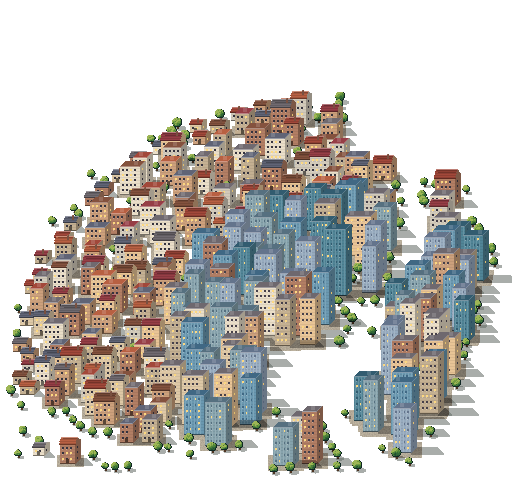
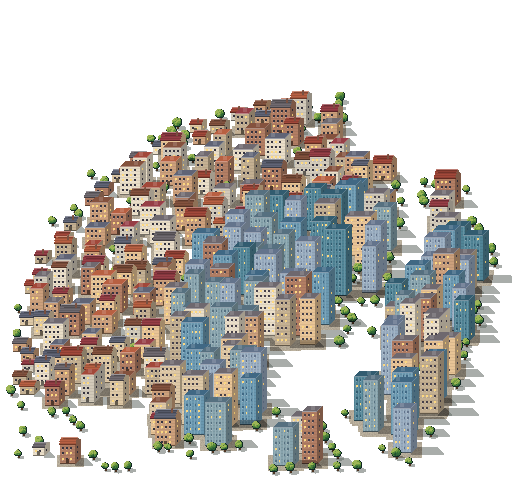
Open Case: the music shop on the map, on the road into town between the park and the station
places.py draws shop.png: a flat over a green shopfront, a sign board with a gold note, a striped
awning and a lit window with a guitar in it, on a bit of pavement. layout.py stands it in the city
just above the road's kerb, halfway from the park to the station, and adds STOPS (the places to busk,
then the shop). The city's buildings keep clear of it, and map.json's places gain "shop", "The Music
Shop", with its pin, label and view. map.test.js checks the shop's picture and stop.

Changed region(s): [[0.1562, 0.7622, 0.4062, 0.9146]]

diff --git a/open-case/test/map.test.js b/open-case/test/map.test.js
@@ -1,6 +1,7 @@
 // Checks the committed map (open-case/assets/map/, written by art/open-case/map/land.py and places.py)
 // against what the map screen expects: every picture map.json names is there and lies on the map, each
-// place to busk has its pin, label and view on the map, and the whole map stays small.
+// stop (the places to busk, then the music shop) has its pin, label and view on the map, and the whole
+// map stays small.
 import { test } from 'node:test';
 import assert from 'node:assert/strict';
 import { readFileSync, readdirSync, statSync } from 'node:fs';
@@ -20,7 +21,7 @@ test('the land is half the map each way, shown at twice its size', () => {
 test('every picture map.json names is there and lies on the map, the city first, under the rest', () => {
   assert.equal(map.pictures[0].name, 'city');
   const names = map.pictures.map((p) => p.name);
-  for (const want of [...PLACE_IDS, 'city', 'suspension', 'truss', 'village', 'lighthouse', 'marina', 'farm']) assert.ok(names.includes(want), want);
+  for (const want of [...PLACE_IDS, 'shop', 'city', 'suspension', 'truss', 'village', 'lighthouse', 'marina', 'farm']) assert.ok(names.includes(want), want);
   assert.equal(new Set(names).size, names.length, 'each once');
   for (const { name, x, y } of map.pictures) {
     const { w, h } = png(name);
@@ -32,7 +33,7 @@ test('every picture map.json names is there and lies on the map, the city first,
 });
 
 test("each place to busk has its picture, its name, and its pin, label and view on the map, the pin over the picture", () => {
-  assert.deepEqual(Object.keys(map.places), PLACE_IDS);
+  assert.deepEqual(Object.keys(map.places), [...PLACE_IDS, 'shop'], 'the stops: the places to busk, then the shop');
   for (const id of PLACE_IDS) {
     const p = map.places[id], pic = map.pictures.find((q) => q.name === id), { w, h } = png(id);
     assert.equal(p.name, PLACE_WORDS[id].name);
@@ -40,6 +41,17 @@ test("each place to busk has its picture, its name, and its pin, label and view 
     assert.ok(p.pin[0] > pic.x && p.pin[0] < pic.x + w && p.pin[1] >= pic.y - 6 && p.pin[1] < pic.y + h, `${id}'s pin`);
     assert.ok(p.label[1] > p.pin[1], `${id}'s label hangs under it`);
   }
+});
+
+test('the music shop is the last stop, with its picture, its name, its pin over the picture and its label under it', () => {
+  const p = map.places.shop, pic = map.pictures.find((q) => q.name === 'shop');
+  assert.ok(p && pic, 'the shop has a stop and a picture');
+  const { w, h } = png('shop');
+  assert.equal(p.name, 'The Music Shop');
+  for (const [x, y] of [p.pin, p.label, p.view]) assert.ok(x >= 0 && x < W && y >= 0 && y < H, `shop: ${x}, ${y}`);
+  assert.ok(p.pin[0] > pic.x && p.pin[0] < pic.x + w && p.pin[1] >= pic.y - 6 && p.pin[1] < pic.y + h, "the shop's pin");
+  assert.ok(p.label[0] > pic.x && p.label[0] < pic.x + w, "the shop's label sits under its picture");
+  assert.ok(p.label[1] > p.pin[1], "the shop's label hangs under its pin");
 });
 
 test('the whole map stays under 500 KB', () => {

diff --git a/art/open-case/map/places.py b/art/open-case/map/places.py
@@ -3,6 +3,8 @@
 #   the three places to busk: the park (a ring of trees round a lawn, a pond, the bandstand), the station
 #     (the glass train shed, its brick front and clock tower, a limestone forecourt with a fountain) and
 #     the night market (striped stalls under lanterns on warm brick, townhouses behind, a boardwalk);
+#   the music shop, on the road into town between the park and the station (a flat over a shopfront
+#     with a striped awning and a guitar in its lit window);
 #   the city, in loose clusters over the land between the park, the station and the village: towers by
 #     the station, flats further out, houses at the edges, trees in the gaps;
 #   the settlements without a name: a village with a church, two suburbs, a farm, a lighthouse, a marina;
@@ -14,16 +16,17 @@
 #   size      [w, h]: the map in screen pixels (the land at SCALE times its size)
 #   land      the land's picture
 #   pictures  [{ name, x, y }]: each picture's top left, in the order they're drawn (the city first)
-#   places    { id: { name, pin: [x, y], label: [x, y], view: [x, y] } }: each place's picture, where its
-#             gold pin points (just over its top), where its label hangs (under it), and the point the
-#             view centres on when it's chosen
+#   places    { id: { name, pin: [x, y], label: [x, y], view: [x, y] } }: each of the map's stops (the
+#             places to busk, then the music shop): its name, where its gold pin points (just over its
+#             picture's top), where its label hangs (under it), and the point the view centres on when
+#             it's chosen
 #   clouds    [{ name, x, y }]: where each cloud starts, drawn at SCALE times its size
 # It's deterministic: an unchanged script writes the same bytes.
 import json, math
 import sys
 from PIL import Image, ImageDraw
 sys.dont_write_bytecode = True  # no __pycache__ beside the scripts
-from layout import (W, H, SCALE, OUT, hsh, mix, step, darker, lighter, PICTURES, PLACES, BRIDGES, CITY, CITY_HEART, CLOUDS,
+from layout import (W, H, SCALE, OUT, hsh, mix, step, darker, lighter, PICTURES, STOPS, BRIDGES, CITY, CITY_HEART, CLOUDS,
                     in_city, masks)
 
 LEAF = [(16, 40, 36), (24, 58, 44), (34, 80, 50), (50, 104, 54), (76, 130, 58), (114, 156, 66), (158, 182, 86)]
@@ -450,6 +453,83 @@ def market():
     back_to_front(items)
     return cv
 
+
+def shop():
+    """The music shop on the road into town: a flat over a shopfront, its sign board with a gold note,
+    a striped awning over the door and a lit window with a guitar standing in it; a bit of pavement in
+    front, with a sandwich board, a lamp and a tree at each end. A little bigger than a city house."""
+    cv = Canvas(72, 56)
+    def slabs(x, y, d):  # the pavement's pale slabs, like the station's forecourt but smaller
+        if d > 0.88:
+            return (184, 174, 154)
+        row = y // 3
+        joint = y % 3 == 0 or (x + (row % 2) * 3) % 6 == 0
+        return (170, 158, 136) if joint else mix((216, 206, 182), (230, 222, 200), hsh(x // 6, row, 64))
+    ground(cv, 34, 49, 30, 5, slabs, 63)
+    x, y, w, h = 21, 46, 24, 25  # the front's bottom left, its width and its height to the eaves
+    wall, GREEN, GOLD = (234, 222, 200), (34, 78, 64), (252, 208, 98)
+    def house():
+        building(cv, x, y, w, h, 12, wall, (96, 100, 118), 'gable', lit=0.5, seed=5, floors=2, door=False)
+        cv.rect(x, y - h, x + w - 1, y - 1, wall)  # the front, painted afresh for the shop's own windows
+        for yy in range(y - h + 2, y, 3):
+            cv.line([(x, yy), (x + w - 1, yy)], darker(wall, 0.06))
+        for k, wx in enumerate(range(x + 4, x + w - 3, 7)):  # the flat upstairs, flowers on its sills
+            cv.rect(wx, y - h + 2, wx + 1, y - h + 4, (252, 216, 128) if k == 1 else (52, 50, 62))
+            cv.line([(wx - 1, y - h + 5), (wx + 2, y - h + 5)], (64, 108, 50))
+            cv.put(wx, y - h + 5, (222, 84, 92))
+            cv.put(wx + 2, y - h + 5, (248, 212, 98))
+        cv.line([(x - 1, y - 17), (x + w, y - 17)], lighter(wall, 0.5))  # the cornice over the shopfront
+        cv.rect(x, y - 16, x + w - 1, y - 14, GREEN)  # the sign board, gold letters round a note
+        cv.line([(x, y - 16), (x + w - 1, y - 16)], (62, 112, 90))
+        nx = x + w // 2
+        for lx in list(range(x + 2, nx - 3, 2)) + list(range(nx + 4, x + w - 2, 2)):
+            cv.put(lx, y - 15, (226, 196, 120))
+        for (ddx, ddy) in ((0, -18), (1, -18), (2, -17), (0, -17), (0, -16), (0, -15), (-1, -15), (-2, -15), (-1, -14), (-2, -14)):
+            cv.put(nx + ddx, y + ddy, GOLD)  # its flag pokes up over the board
+        cv.rect(x, y - 13, x + w - 1, y, GREEN)  # the shopfront
+        wx1 = x + w - 9  # the window, lit warm, the guitar standing in it
+        cv.rect(x + 2, y - 11, wx1, y - 1, (24, 50, 42))
+        for yy in range(y - 10, y - 1):
+            cv.line([(x + 3, yy), (wx1 - 1, yy)], mix((255, 244, 206), (246, 204, 128), (yy - (y - 10)) / 8))
+        guitar = ['..H..', '..N..', '..N..', '..N..', '.BBB.', '.BOB.', 'bBBBb', 'bBBBb', '.bbb.']
+        colours = {'H': (54, 32, 26), 'N': (90, 56, 38), 'B': (214, 104, 44), 'b': (128, 52, 32), 'O': (46, 26, 22)}
+        gx = (x + 2 + wx1) // 2 - 2
+        for r, row in enumerate(guitar):
+            for c, ch in enumerate(row):
+                if ch in colours:
+                    cv.put(gx + c, y - 10 + r, colours[ch])
+        cv.line([(x + 2, y - 1), (wx1, y - 1)], lighter(GREEN, 0.3))  # the sill
+        dx0 = x + w - 6  # the door, its glass lit
+        cv.rect(dx0, y - 10, dx0 + 3, y - 1, (22, 50, 42))
+        cv.rect(dx0 + 1, y - 9, dx0 + 2, y - 5, (246, 206, 128))
+        cv.put(dx0 + 2, y - 3, GOLD)
+        a, b = (204, 58, 66), (246, 238, 222)  # the striped awning, lit along its top, scalloped below
+        cv.rect(x - 1, y - 13, x + w, y - 11, b)
+        for xx in range(x - 1, x + w + 1):
+            if ((xx - x + 1) // 2) % 2 == 0:
+                cv.line([(xx, y - 13), (xx, y - 11)], a)
+                cv.put(xx, y - 10, a if (xx - x) % 2 == 0 else darker(a, 0.2))
+            elif (xx - x) % 2 == 0:
+                cv.put(xx, y - 10, darker(b, 0.12))
+        cv.line([(x - 1, y - 13), (x + w, y - 13)], lighter(a, 0.25))
+        for xx in range(x + 3, wx1):  # its shadow on the window
+            cv.shade(xx, y - 9, 0.2)
+    def board(px, py):  # a sandwich board by the door, chalked
+        cv.rect(px, py - 4, px + 2, py - 1, (52, 56, 54))
+        cv.line([(px, py - 4), (px + 2, py - 4)], (150, 112, 74))
+        cv.put(px + 1, py - 3, (236, 232, 220))
+        cv.put(px + 1, py - 2, GOLD)
+        cv.put(px, py, (100, 72, 48))
+        cv.put(px + 2, py, (100, 72, 48))
+        cv.put(px + 3, py, (0, 0, 0, 60))
+    items = [(y, 0, house), (49, 1, lambda: board(x + w - 3, 49)), (50, 2, lambda: lamp(cv, x - 4, 50))]
+    for k, px in enumerate((7, 65)):
+        items.append((50, 10 + k, lambda px=px: tree(cv, px, 50, 5, px + 3)))
+    for i, (px, py) in enumerate(((x + 6, 49), (x + 11, 51), (x + w + 4, 50))):
+        items.append((py, 20 + i, lambda px=px, py=py, i=i: person(cv, px, py, i + 3)))
+    back_to_front(items)
+    return cv
+
 # ---------------------------------------------------------------------------------------------
 # The settlements without a name
 
@@ -680,9 +760,9 @@ def truss(L=88):
 
 def city(pictures, M):
     """The city's buildings, loose on patches of paving over the land inside its outline, clear of the
-    roads, the water and the pictures standing in it (the station, the village, the park): towers
-    crowded round its heart by the station, flats further out, houses in gardens at the edges, trees in
-    the gaps. Returns the picture and its top left, in screen pixels."""
+    roads, the water and the pictures standing in it (the station, the village, the park, the shop):
+    towers crowded round its heart by the station, flats further out, houses in gardens at the edges,
+    trees in the gaps. Returns the picture and its top left, in screen pixels."""
     roads, water = M['kerb'].load(), M['water'].load()
     xs, ys = [p[0] for p in CITY], [p[1] for p in CITY]
     lx0, ly0, lx1, ly1 = min(xs) - 4, min(ys) - 50, max(xs) + 8, max(ys) + 6  # with headroom for the towers
@@ -695,7 +775,7 @@ def city(pictures, M):
     def clear_of(px0, py0, px1, py1):
         return all(ground_ok(*land(px, py)) for py in range(int(py0), int(py1) + 1, 2) for px in range(int(px0), int(px1) + 1, 2))
     keep_out = []  # the lower part of each picture standing in the city
-    for name in ('station', 'village', 'park'):
+    for name in ('station', 'village', 'park', 'shop'):
         cx, by, _, _ = PICTURES[name]
         im = pictures[name].img
         keep_out.append((cx * SCALE - im.width // 2 - lx0 * SCALE + 6, by * SCALE - im.height * 0.55 - ly0 * SCALE,
@@ -767,8 +847,8 @@ def top_row(cv):
 
 
 pictures = {
-    'park': park(), 'station': station(), 'market': market(), 'suburb1': suburb(3), 'suburb2': suburb(11),
-    'village': village(), 'farm': farm(), 'lighthouse': lighthouse(), 'marina': marina(),
+    'park': park(), 'station': station(), 'market': market(), 'shop': shop(), 'suburb1': suburb(3),
+    'suburb2': suburb(11), 'village': village(), 'farm': farm(), 'lighthouse': lighthouse(), 'marina': marina(),
 }
 the_city, city_at = city(pictures, masks())
 bridges = {'suspension': suspension(96), 'truss': truss(88)}
@@ -776,12 +856,12 @@ clouds = {'cloud1': cloud(120, 44, 5), 'cloud2': cloud(90, 34, 9)}
 
 placed = [{'name': 'city', 'x': city_at[0], 'y': city_at[1]}]
 places = {}
-NAMES = {'park': 'The Park', 'station': 'The Station', 'market': 'The Night Market'}
+NAMES = {'park': 'The Park', 'station': 'The Station', 'market': 'The Night Market', 'shop': 'The Music Shop'}
 for name, (cx, by, w, h) in sorted(PICTURES.items(), key=lambda kv: (kv[1][1], kv[0])):
     cv = pictures[name]
     x, y = cx * SCALE - cv.w // 2, by * SCALE - cv.h + 3
     placed.append({'name': name, 'x': x, 'y': y})
-    if name in PLACES:
+    if name in STOPS:
         places[name] = {'name': NAMES[name], 'pin': [cx * SCALE, y + top_row(cv) - 4], 'label': [cx * SCALE, by * SCALE + 6],
                         'view': [cx * SCALE, round(by * SCALE - cv.h * 0.4 - 17)]}
 for name, (bx, by, _) in BRIDGES.items():
@@ -794,7 +874,7 @@ data = {
     'size': [W * SCALE, H * SCALE],
     'land': 'land.png',
     'pictures': placed,
-    'places': {k: places[k] for k in PLACES},
+    'places': {k: places[k] for k in STOPS},
     'clouds': [{'name': name, 'x': x * SCALE, 'y': y * SCALE} for (name, x, y) in CLOUDS],
 }
 (OUT / 'map.json').write_text(json.dumps(data, indent=2) + '\n')

diff --git a/art/open-case/map/layout.py b/art/open-case/map/layout.py
@@ -102,13 +102,16 @@ PATHS = [
 RAIL = [(970, 300), (900, 300), (830, 300), (760, 300), (712, 300), (692, 300), (672, 300), (646, 292), (622, 274), (606, 262)]
 
 # Where each picture stands (places.py): its bottom middle and the size of the clear ground it needs,
-# where no trees grow: (x, y, w, h).
+# where no trees grow: (x, y, w, h). The music shop stands in the city on the road into town, just
+# above its kerb, halfway from the park to the station, where its label fits between theirs.
 PICTURES = {
     'park': (404, 262, 80, 50), 'station': (604, 270, 92, 52), 'market': (424, 438, 76, 44),
+    'shop': (500, 284, 32, 22),
     'suburb1': (250, 318, 70, 34), 'suburb2': (790, 420, 70, 34), 'farm': (870, 500, 54, 34),
     'lighthouse': (120, 178, 26, 30), 'marina': (334, 478, 60, 26), 'village': (650, 150, 56, 30),
 }
 PLACES = ['park', 'station', 'market']  # the pictures that are places to busk
+STOPS = PLACES + ['shop']  # the map's stops: the places to busk, then the music shop
 # Where the road and the railway cross the river, on bridges drawn from the side: each deck's left end
 # and its length.
 BRIDGES = {'suspension': (664, 344, 48), 'truss': (670, 300, 44)}
